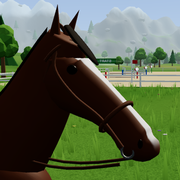
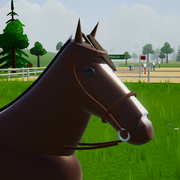
Új app ikon az arányosabb lófejjel
Claude-Session: https://claude.ai/code/session_01Um7UFjkJiAb9S7LrJW4bog

diff --git a/sw.js b/sw.js
@@ -1,6 +1,6 @@
 // Offline működés. Új fájlok feltöltésekor írd át a verziót (v1 → v2).
-const CACHE = 'vagtavolgy-v3';
-const FILES = ['./', './index.html', './manifest.webmanifest', './icon-180.png', './icon-192.png', './icon-512.png'];
+const CACHE = 'vagtavolgy-v4';
+const FILES = ['./', './index.html', './manifest.webmanifest', './icon-180.png?v=2', './icon-192.png?v=2', './icon-512.png?v=2'];
 self.addEventListener('install', (e) => { e.waitUntil(caches.open(CACHE).then((c) => c.addAll(FILES)).then(() => self.skipWaiting())); });
 self.addEventListener('activate', (e) => { e.waitUntil(caches.keys().then((ks) => Promise.all(ks.filter((k) => k !== CACHE).map((k) => caches.delete(k)))).then(() => self.clients.claim())); });
 self.addEventListener('fetch', (e) => {

diff --git a/index.html b/index.html
@@ -10,8 +10,8 @@
 <meta name="theme-color" content="#2e5b8f">
 <title>Vágtavölgy</title>
 <link rel="manifest" href="manifest.webmanifest">
-<link rel="apple-touch-icon" href="icon-180.png">
-<link rel="icon" href="icon-192.png">
+<link rel="apple-touch-icon" href="icon-180.png?v=2">
+<link rel="icon" href="icon-192.png?v=2">
 <style>
 :root{--acc:#e8702a;--acc2:#2e5b8f;--ink:#2a2733;--pan:rgba(255,253,248,.86);--sat:env(safe-area-inset-top,0px);--sab:env(safe-area-inset-bottom,0px);--sal:env(safe-area-inset-left,0px);--sar:env(safe-area-inset-right,0px)}
 *{box-sizing:border-box;-webkit-tap-highlight-color:transparent;-webkit-user-select:none;user-select:none;-webkit-touch-callout:none}
